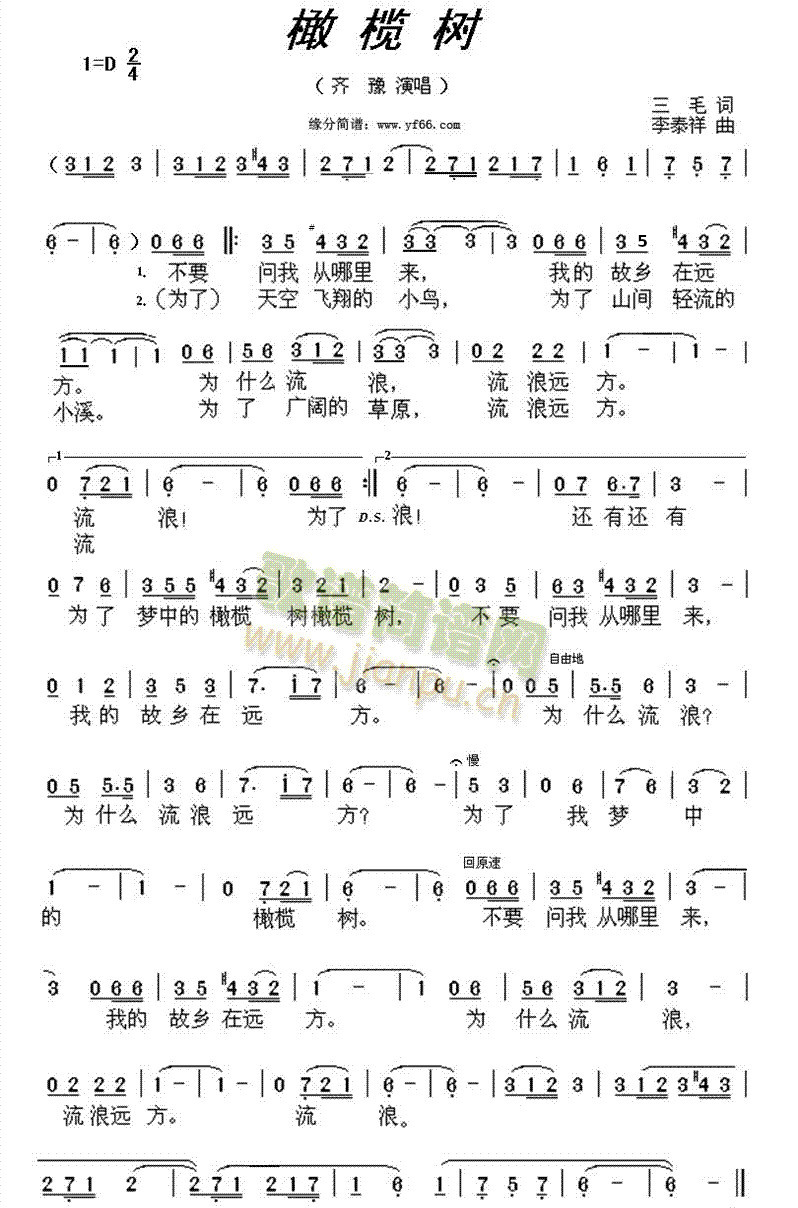
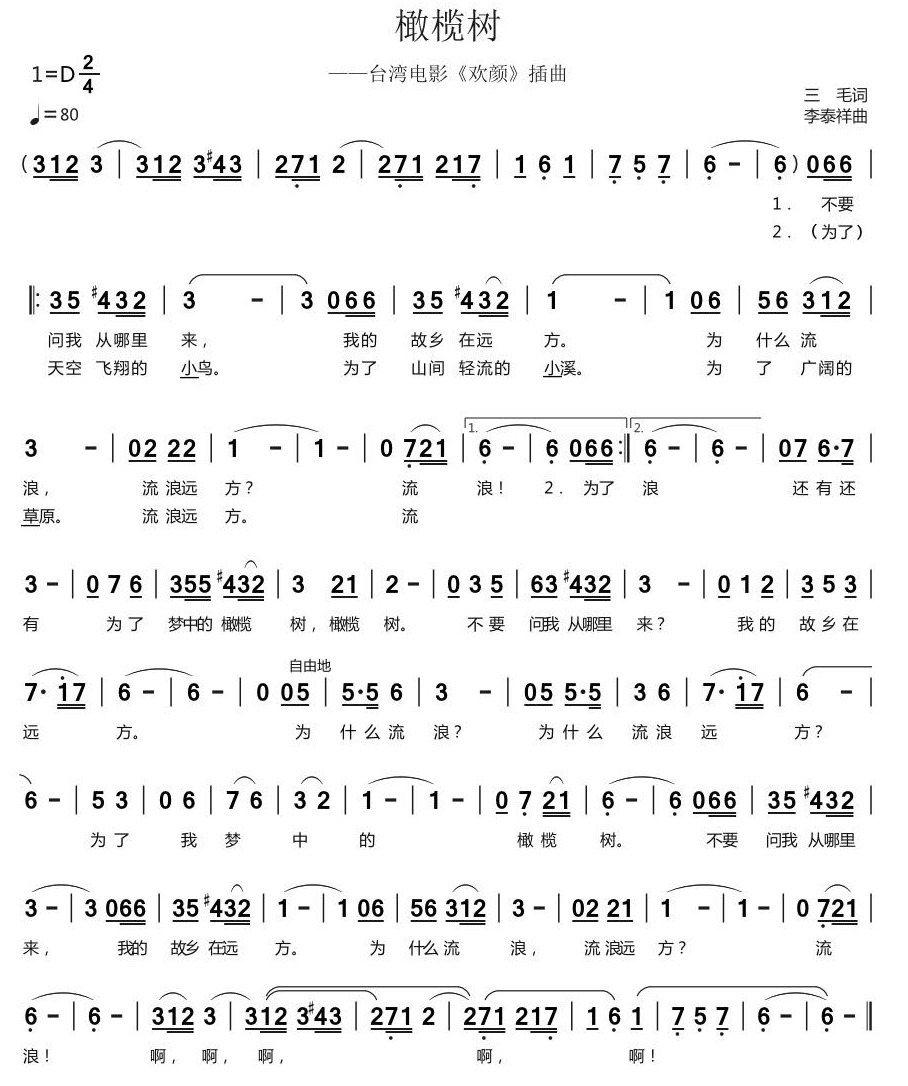
Update 橄榄树 with a better picture.

diff --git a/myflute.tex b/myflute.tex
@@ -342,7 +342,7 @@
 \section{木兰辞}\includegraphics[width=\textwidth]{dongxiao/20200819/木兰辞.jpeg}
 \section{柳絮飞}\includegraphics[width=0.95\textwidth]{dongxiao/20200819/柳絮飞.jpg}
 \section{梦回兰若}\includegraphics[width=\textwidth]{dongxiao/20200819/梦回兰若.jpeg}
-\section{橄榄树}\includegraphics[width=0.85\textwidth]{rpi400/20210110-橄榄树.jpg}
+\section{橄榄树}\includegraphics[width=\textwidth]{rpi400/20210110-橄榄树.jpg}
 \section{泛沧浪 2.1}\includegraphics[width=0.95\textwidth]{dongxiao/20200819/泛沧浪-1.jpeg}
 \section{泛沧浪 2.2}\includegraphics[width=0.95\textwidth]{dongxiao/20200819/泛沧浪-2.jpeg}
 \section{涧上春秋}\includegraphics[width=\textwidth]{dongxiao/20200819/涧上春秋.jpeg}
